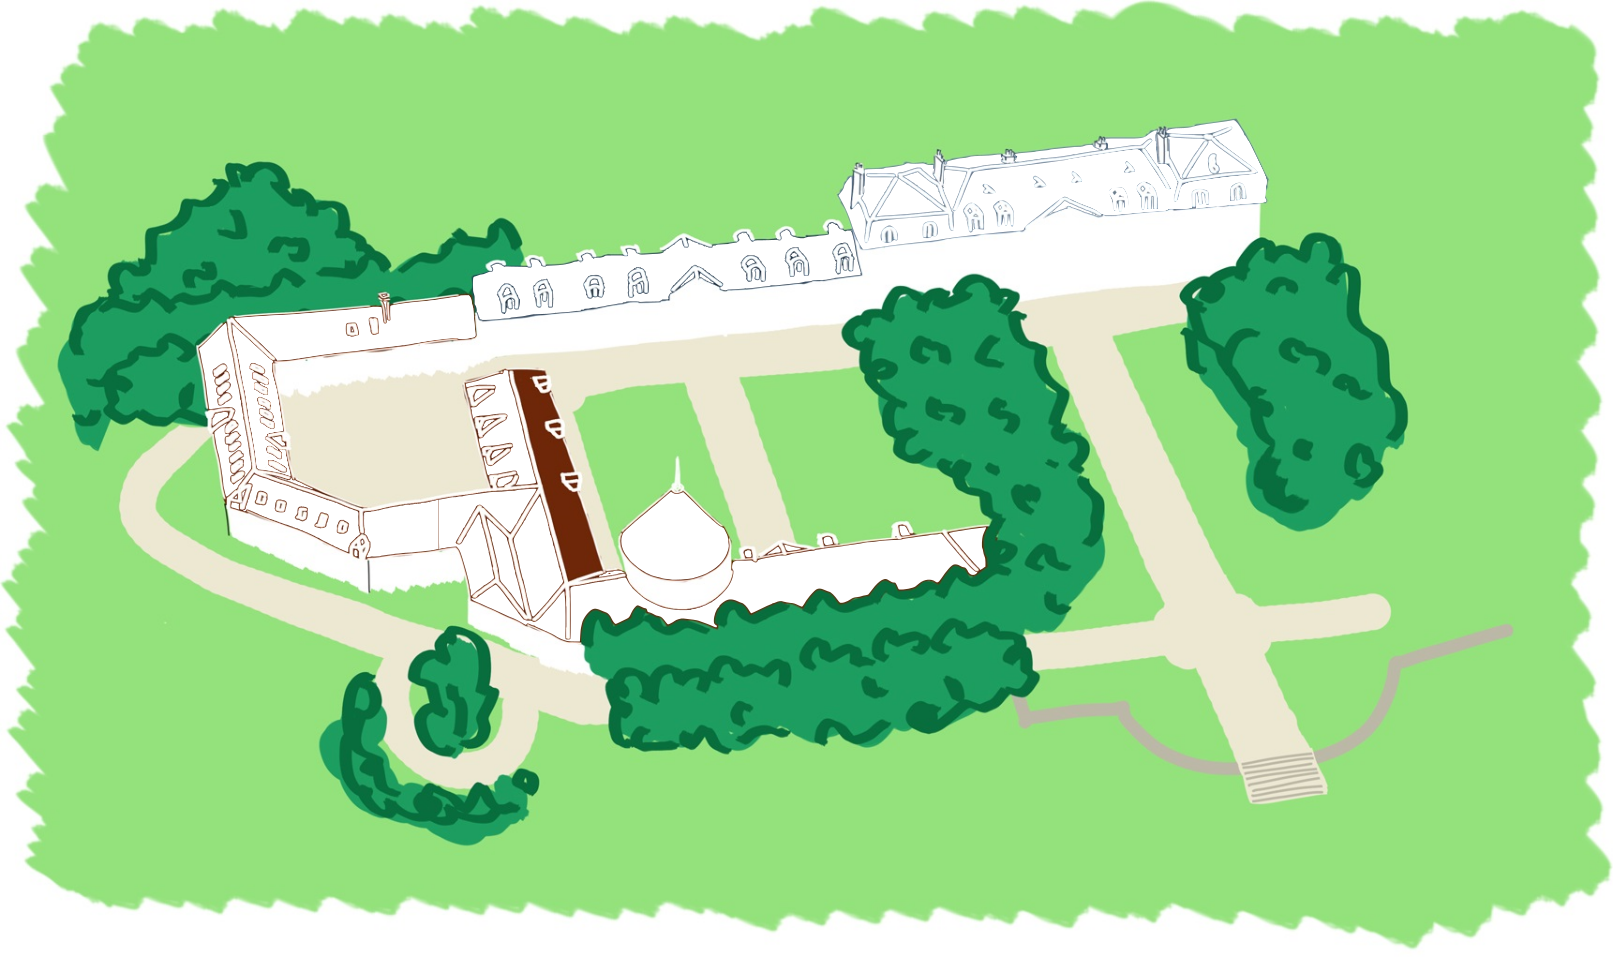
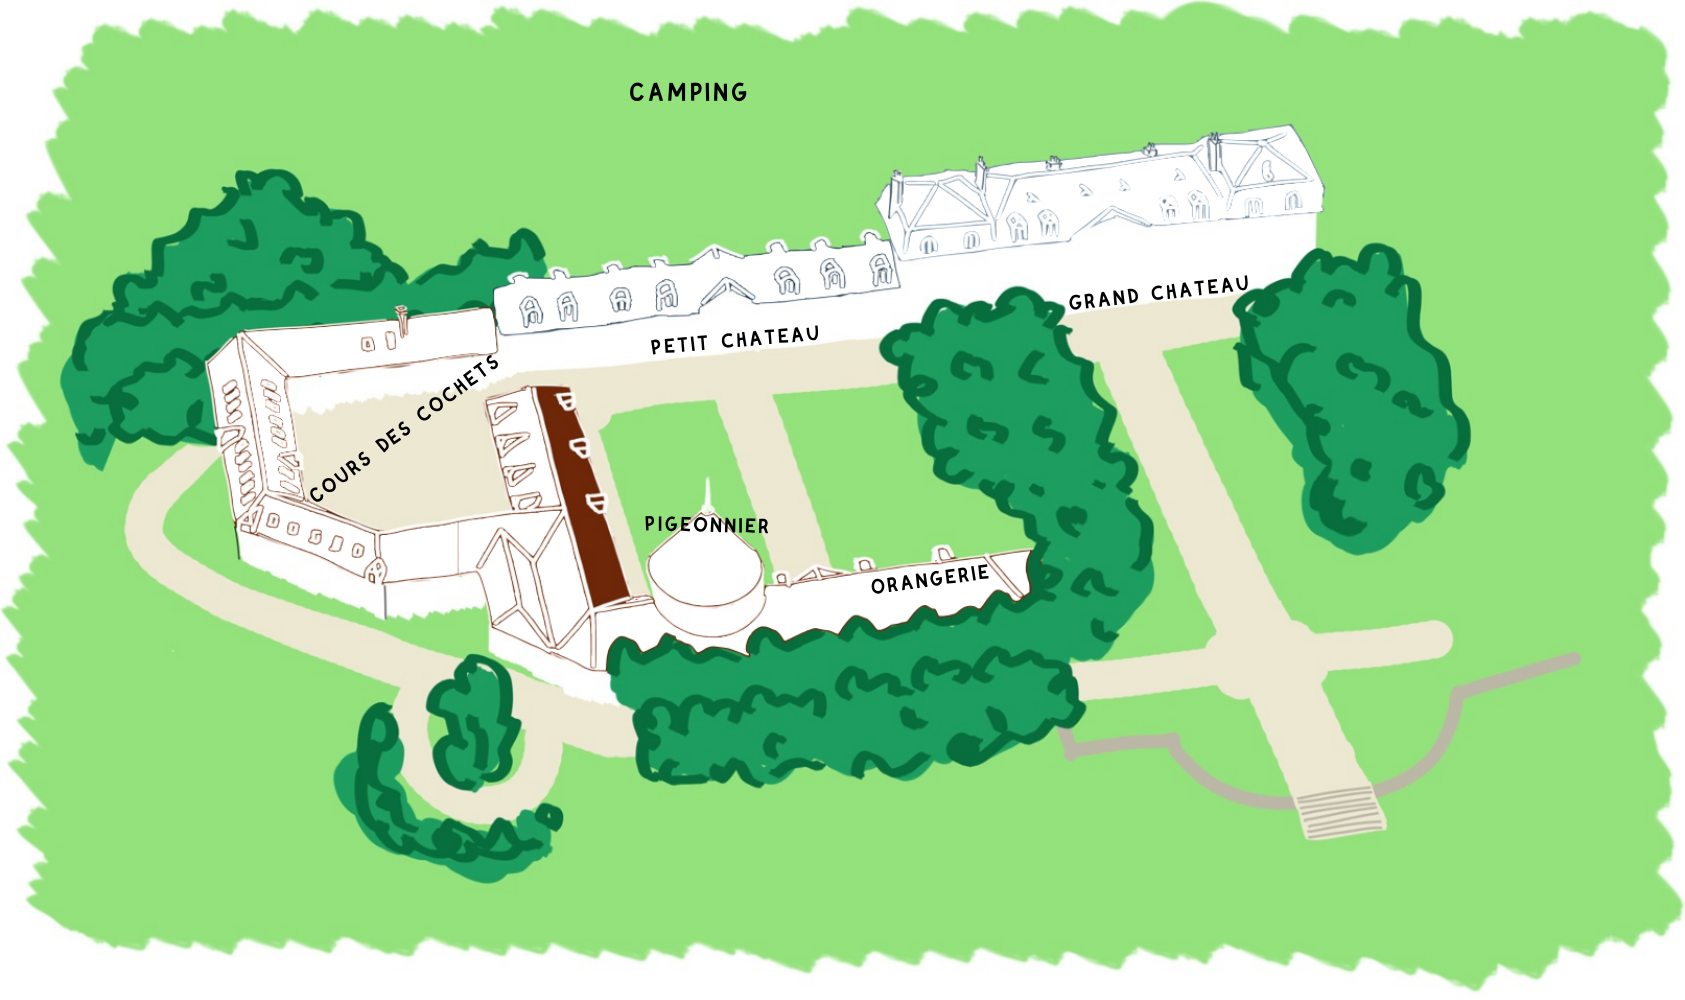
Adding name of building on the picture

diff --git a/src/mmmfestBundle/mmmfestConfig.php b/src/mmmfestBundle/mmmfestConfig.php
@@ -93,9 +93,9 @@ class mmmfestConfig
         'y'     => '29%',
       ],
       "urn:mm/building/boisDesCochets"            => [
-        'title' => "Bois des cochets",
-        'x'     => '22%',
-        'y'     => '50%',
+        'title' => "Cours des cochets",
+        'x'     => '25%',
+        'y'     => '54%',
       ],
       "urn:mm/building/pigeonnier"            => [
         'title' => "Pigeonnier",
@@ -126,7 +126,7 @@ class mmmfestConfig
     static $buildingsSimple = [
       "urn:mm/building/grandChateau"  => "Grand Chateau",
       "urn:mm/building/petitChateau"  => "Petit chateau",
-      "urn:mm/building/boisDesCochets"=> "Bois des cochets",
+      "urn:mm/building/boisDesCochets"=> "Cours des cochets",
       "urn:mm/building/pigeonnier"    => "Pigeonnier",
       "urn:mm/building/orangerie"     => "Orangerie",
       "urn:mm/building/camping"       => "Camping",
@@ -136,7 +136,7 @@ class mmmfestConfig
     static $buildingsExtended = [
         "urn:mm/building/grandChateau"  => "Grand Chateau",
         "urn:mm/building/petitChateau"  => "Petit chateau",
-        "urn:mm/building/boisDesCochets"=> "Bois des cochets",
+        "urn:mm/building/boisDesCochets"=> "Cours des cochets",
         "urn:mm/building/pigeonnier"    => "Pigeonnier",
         "urn:mm/building/orangerie"     => "Orangerie",
         "urn:mm/building/camping"       => "Camping",
